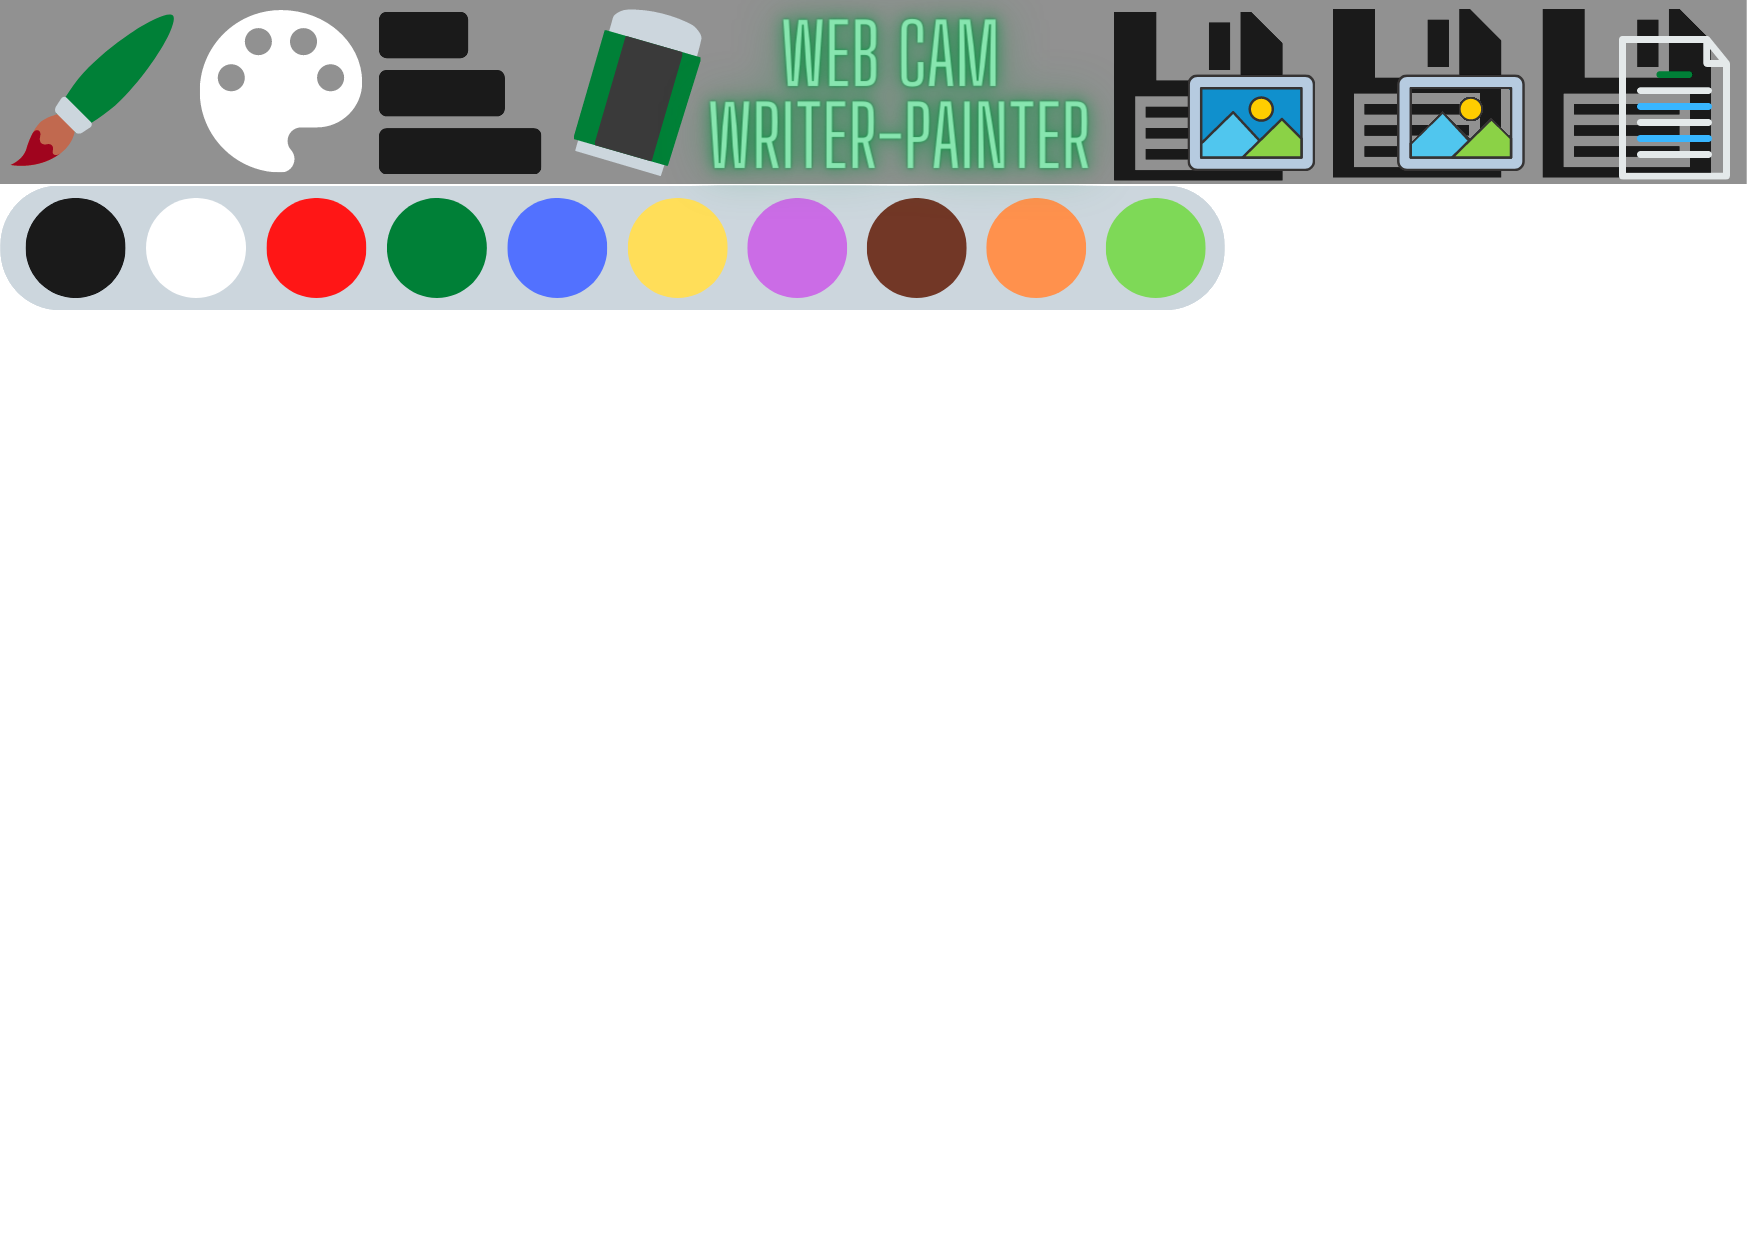
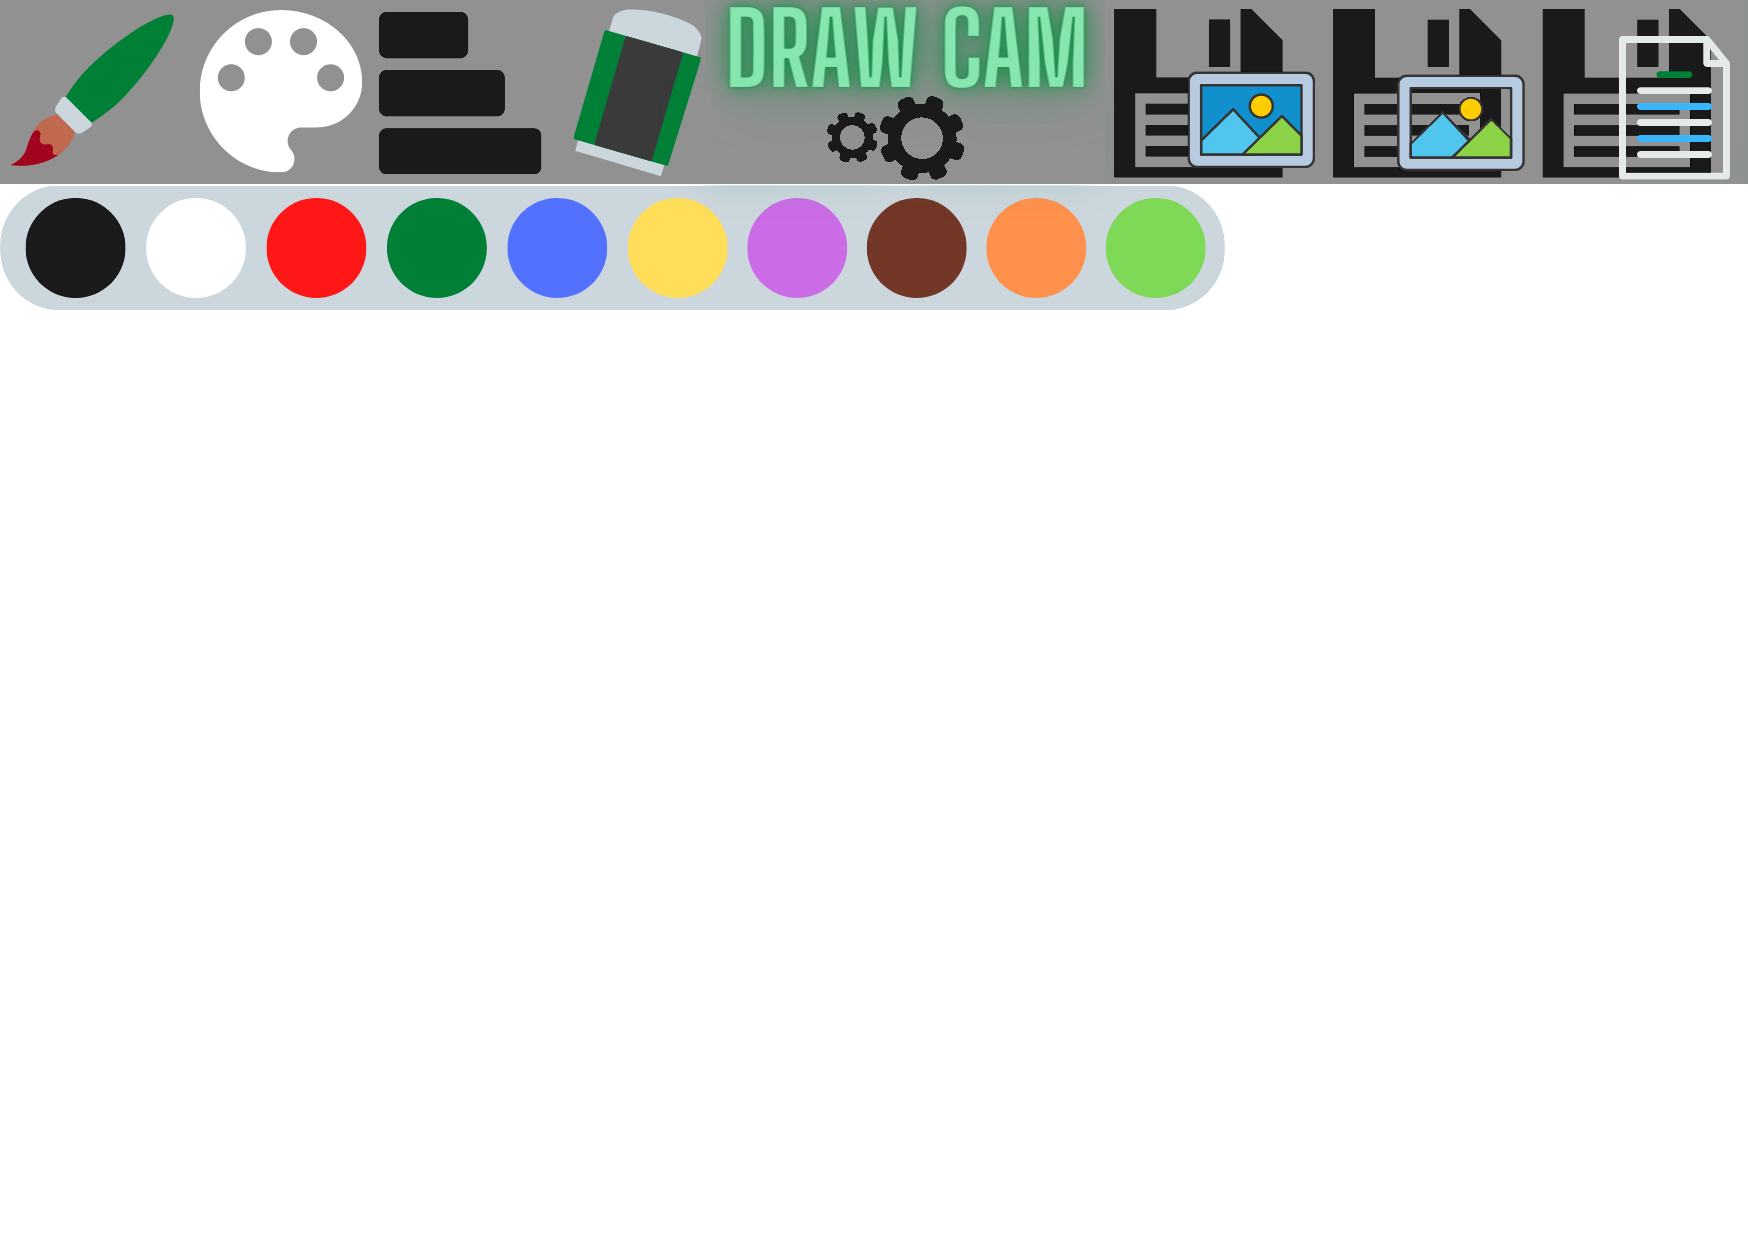
new settings: num of tracked hands, onoff fps disp

Changed region(s): [[0.4016, 0.0, 0.7414, 0.1532]]

diff --git a/ToolsInterface.py b/ToolsInterface.py
@@ -7,15 +7,19 @@ class ToolsInterface:
     __defaultWidth = 1748
     __defaultHeigth = 1240
     __defaultStripHeight = 183
-    __defaultIconSpacing = [(8,177),(196,365),(375,544),(555,724),(1105,1304),(1329,1513),(1537,17320)]
-    __numberOfIcons = 7
+    __defaultIconSpacing = [(8,177),(196,365),(375,544),(555,724),(1105,1304),(1329,1513),(1537,17320), (810,980)]
+    __numberOfIcons = 8
     __numberOfSizes = 3
     __numberOfColors = 10
+    __numberOfSettings = 3
 
     __defaultSizeSpacing = [(34,394),(416,776),(800,1160)]
     __defaultSizeBarHeigth = 180
     __defaultColorPalleteSpacing = [20,110,10] #First param - distance from left border, Second - width of one color option, Third - space between colors in the pallete
     __defaultColorPalleteHeigth = 124
+
+    __defaultSettingSpacing = [(560,700),(768,1030),(1054,1240) ]
+    __defaultSettingsHeight = 180
 
     def __init__(self) -> None:
         self.interfaceImgIndex = 0
@@ -33,7 +37,14 @@ class ToolsInterface:
         self.sizeBarSpacing = ToolsInterface.__defaultSizeSpacing
         self.sizeBarHeigth = ToolsInterface.__defaultSizeBarHeigth
         self.colorPaletteSpacing = ToolsInterface.__defaultColorPalleteSpacing
-        self.colorPalleteHeigth = ToolsInterface.__defaultStripHeight
+        self.colorPalleteHeigth = ToolsInterface.__defaultColorPalleteHeigth
+        self.settingsSpacing = ToolsInterface.__defaultSettingSpacing
+        self.settingsHeight = ToolsInterface.__defaultSettingsHeight
+
+        self.multi_hands_mode_ON = False
+        self.fps_mode_ON = False
+        self.lock_fps_mode = False
+
 
     def adjustToCamSize(self, width, height) -> None:
         for i in range(0,len(self.resourcesListImg)): 
@@ -42,9 +53,11 @@ class ToolsInterface:
         h,w,c = self.resourcesListImg[0].shape
         self.width = w
         self.height = h
-        self.stripHeight = (int)((h/ToolsInterface.__defaultHeigth) * self.stripHeight)
-        self.sizeBarHeigth = (int)((h/ToolsInterface.__defaultHeigth) * self.sizeBarHeigth)
-        self.colorPalleteHeigth = (int)((h/ToolsInterface.__defaultHeigth) * self.colorPalleteHeigth)
+        hProp = h/ToolsInterface.__defaultHeigth
+        self.stripHeight = (int)(hProp * self.stripHeight)
+        self.sizeBarHeigth = (int)(hProp * self.sizeBarHeigth)
+        self.colorPalleteHeigth = (int)(hProp * self.colorPalleteHeigth)
+        self.settingsHeight = (int)(hProp * self.settingsHeight)
 
         for i in range(0,len(self.resourcesListImg)): 
             he,wi,ch = self.resourcesListImg[i].shape
@@ -62,9 +75,12 @@ class ToolsInterface:
         for i in range(0,ToolsInterface.__numberOfSizes):
                 self.sizeBarSpacing[i] = ((int)(self.sizeBarSpacing[i][0]*wProp),(int)(self.sizeBarSpacing[i][1]*wProp))
 
+        for i in range(0, len(self.settingsSpacing)):
+            self.settingsSpacing[i] = ((int)(self.settingsSpacing[i][0]*wProp),(int)(self.settingsSpacing[i][1]*wProp))
+
 
     def setToolsImg(self, is_eraser_active = False, icon_id = 0) -> None:
-        if icon_id == 0 or icon_id > 3:
+        if icon_id == 0 or (icon_id > 3 and icon_id < 7):
             self.interfaceImgIndex = 0
         elif icon_id == 1 and is_eraser_active == False:
                 self.interfaceImgIndex = 1
@@ -75,19 +91,21 @@ class ToolsInterface:
                 self.interfaceImgIndex = 2
         elif icon_id == 3:
                 self.interfaceImgIndex = 3
+        elif icon_id == 7:
+            self.interfaceImgIndex = self.__chooseCurrentSettingsImage()
         pass
-    # def setToolsImg(self, paint = False, color_pick = False, paint_size = False, eraser = False, eraser_size = False) -> None:
-    #     if paint == True:
-    #         self.interfaceImgIndex = 0
-    #     elif color_pick == True:
-    #         self.interfaceImgIndex = 1
-    #     elif paint_size == True:
-    #         self.interfaceImgIndex = 2
-    #     elif eraser == True:
-    #         self.interfaceImgIndex = 3
-    #     elif eraser_size == True:
-    #         self.interfaceImgIndex = 4
-    #     pass
+
+    def __chooseCurrentSettingsImage(self):
+        if self.multi_hands_mode_ON:
+            if self.fps_mode_ON:
+                return 8
+            else:
+                return 7
+        if self.multi_hands_mode_ON == False:
+            if self.fps_mode_ON:
+                return 6
+            else:
+                return 5
 
     def pickTool(self, x, y) -> Tuple:
         """coordinates has to be passed as pixel position"""
@@ -98,6 +116,7 @@ class ToolsInterface:
             while matching == False and icon_choosen < ToolsInterface.__numberOfIcons:
                 if x >= self.iconSpacing[icon_choosen][0] and x < self.iconSpacing[icon_choosen][1]:  
                     matching = True
+                    self.lock_fps_mode = False
                 else:
                     icon_choosen += 1 
         if 7 > icon_choosen > 3:
@@ -141,4 +160,29 @@ class ToolsInterface:
                     iteration += 1 
 
         return size_Id_choosen
-        pass
+
+    def pickSettings(self, x, y):
+        matching = False
+        iteration = 0
+        if y <= self.stripHeight + self.settingsHeight and y > self.stripHeight: 
+            while matching == False and iteration < self.__numberOfSettings:
+                if x > self.settingsSpacing[iteration][0] and x <=  self.settingsSpacing[iteration][1]:
+                    matching = True
+                    if iteration == 0: 
+                        self.multi_hands_mode_ON = False                 
+                    if iteration == 1:
+                        self.multi_hands_mode_ON = True
+                    if iteration == 2: #TODO
+                        if self.fps_mode_ON and self.lock_fps_mode != True:
+                            self.fps_mode_ON = False
+                            self.lock_fps_mode = True
+                        elif self.lock_fps_mode != True:
+                            self.fps_mode_ON = True
+                            self.lock_fps_mode = True
+                else:
+                    iteration += 1 
+
+        return (self.multi_hands_mode_ON, self.fps_mode_ON)
+
+    def getToolsMode(self): #0- brush,1-colorpick , 2-brushpick ,3-eraser ,4-erasersize, 5-8: settings
+        return self.interfaceImgIndex

diff --git a/DrawCam.py b/DrawCam.py
@@ -18,6 +18,9 @@ class DrawCam:
         self.tools = ToolsInterface.ToolsInterface()
 
         self.tools.adjustToCamSize(self.camera.read()[1].shape[1],self.camera.read()[1].shape[0])
+
+        self.is_fps_counter_on = False
+        self.fpsC = FPScounter()
         pass
 
     def __setCanvas(self, parentImg):
@@ -57,7 +60,7 @@ class DrawCam:
         elif saveMode == 6: #as a text
             #TODO save img
             print("SAVING IMAGE IN MODE: ", str(saveMode))
-            time.sleep(2)      
+        time.sleep(2)      
         pass  
 
     def __handlePaletteSelections(self, X,Y, frame):
@@ -74,12 +77,21 @@ class DrawCam:
             if handsData[4][i] == True and handsData[2][i] == True and handsData[3][i] == True:
                 xPx,yPx = self.recogniser.toPixelCoord(frame.shape, handsData[1][i])
                 matchedPick = self.tools.pickTool(frame.shape[1] - xPx, yPx)
-                                                        
-                if matchedPick[0]:
+                
+                if matchedPick[0]:                              
                     self.tools.setToolsImg(self.painter.getEraserMode(), matchedPick[1])
                     self.painter.setMode(matchedPick[1])
-                if matchedPick[2]:
-                    self.__wrapSaveProcedure(matchedPick[1], frame, self.canvas)
+                    if matchedPick[2]:
+                        self.__wrapSaveProcedure(matchedPick[1], frame, self.canvas)
+
+                if self.tools.getToolsMode() >= 5:
+                    settings = self.tools.pickSettings(frame.shape[1] - xPx, yPx)
+                    if settings[0]:
+                        self.recogniser.changeModel(2)
+                    else:
+                        self.recogniser.changeModel(1)
+                    self.is_fps_counter_on = settings[1]
+                    self.tools.setToolsImg(self.painter.getEraserMode(), 7)                                                    
 
                 self.__handlePaletteSelections(xPx, yPx, frame)
         pass
@@ -101,9 +113,13 @@ class DrawCam:
                 frame = self.__superimposeImages(frame, self.tools.getToolsImgFlipped()) 
 
                 for i in range(0, handsData[0]):
-                    frame = self.recogniser.paintMarkers(handsData[5][i], frame, self.painter.getCurrentColor())
+                    frame = self.recogniser.paintMarkers(handsData[5][i], frame, self.painter.getCurrentColor(), self.painter.getCurrentSize())
 
                 frame = cv2.flip(frame, 1)
+                
+                if self.is_fps_counter_on:
+                    frame = self.fpsC.displayFPS(frame)
+
                 cv2.imshow("DRAW-CAM", frame)
 
         self.camera.release()
@@ -115,18 +131,18 @@ class FPScounter:
         self.time_stamp_now = time.time()
         pass
     
-    def getFPS(self):
+    def __getFPS(self):
         self.time_stamp_now = time.time()
-        fps, self.time_stamp_start = self.countFPS(self.time_stamp_now, self.time_stamp_start)
+        fps, self.time_stamp_start = self.__countFPS(self.time_stamp_now, self.time_stamp_start)
         return fps
 
     def displayFPS(self, image):
-        fpsNum = self.getFPS()
+        fpsNum = self.__getFPS()
         image = cv2.putText(image, str(fpsNum), (0, image.shape[0]-50), cv2.FONT_HERSHEY_SIMPLEX, 3, 
              (94, 10, 2), 8, cv2.LINE_AA, False)
         return image
 
-    def countFPS(t1, t2):
+    def __countFPS(self, t1, t2):
         a = (int) (1/(t1 - t2))
         t2 = t1    
         return a, t2

diff --git a/Recogniser.py b/Recogniser.py
@@ -26,12 +26,12 @@ class Recogniser:
         self.mp_drawing = mp.solutions.drawing_utils
         self.mp_drawing_styles = mp.solutions.drawing_styles
         self.mp_hands = mp.solutions.hands
-        
+        self.num_of_hands = 1
 
         self.hands = self.mp_hands.Hands( static_image_mode=False, model_complexity=Recogniser.__model_complexity,
             min_detection_confidence=Recogniser.__min_detection_confidence,
             min_tracking_confidence=Recogniser.__min_tracking_confidence, 
-            max_num_hands=Recogniser.__max_num_hands)
+            max_num_hands=self.num_of_hands)
         pass
 
     def recogniseHandsOnImg(self, image):
@@ -95,14 +95,17 @@ class Recogniser:
         img = cv2.cvtColor(img, cv2.COLOR_BGR2RGB)
         return img
 
-    def paintMarkers(self, enLmList, img, fingerTipColor):
+    def paintMarkers(self, enLmList, img, fingerTipColor, fingerTipSize):
         colorTip = Recogniser.__topMarkerColor
+        sizeTip = Recogniser.__topMarkerSize
         if fingerTipColor is not None:
             colorTip = fingerTipColor
+        if fingerTipSize is not None:
+            sizeTip = fingerTipSize    
         for i in range(0, len(enLmList)):
             if i in Recogniser.__visibleLandmarksIds:
                 if i in Recogniser.__topMarkersIds:
-                    img = cv2.circle(img, self.toPixelCoord(img.shape, enLmList[i]), Recogniser.__topMarkerSize, colorTip, -1) 
+                    img = cv2.circle(img, self.toPixelCoord(img.shape, enLmList[i]), sizeTip, colorTip, -1) 
                 else:
                     img = cv2.circle(img, self.toPixelCoord(img.shape, enLmList[i]), Recogniser.__markerSize, Recogniser.__markerColor, -1) 
         # for id, lm in enLmList:
@@ -135,3 +138,12 @@ class Recogniser:
         y_pos=(int)(lm.y*imgShape[0])
         x_pos=(int)(imgShape[1]*lm.x)
         return x_pos,y_pos
+
+    def changeModel(self, new_number_of_hands:int = 1):
+        if new_number_of_hands != self.num_of_hands:
+            self.num_of_hands = new_number_of_hands
+            self.hands = self.mp_hands.Hands( static_image_mode=False, model_complexity=Recogniser.__model_complexity,
+                min_detection_confidence=Recogniser.__min_detection_confidence,
+                min_tracking_confidence=Recogniser.__min_tracking_confidence, 
+                max_num_hands=new_number_of_hands)
+        pass

diff --git a/Painter.py b/Painter.py
@@ -91,6 +91,9 @@ class Painter:
 
     def getCurrentColor(self):
         return Painter.__colors[self.current_color]
+    
+    def getCurrentSize(self):
+        return self.brush_size
 
     def getCurrentColorId(self):
         return self.current_color

diff --git a/README.md b/README.md
@@ -1,11 +1,12 @@
 # DRAW CAM - Ai virtual painter
 **Application which lets you draw and write with your hands movement**
-> Uses Mediapipe algorithms for hands recognision 
-> Requeries web cam to work
-> Allows for painting on top of your camera output with multiple tools
-> WIP: Has image to text frature. Converts letters which You draw to .txt
-> Friendly and simple interface
-
+ - [x] Uses Mediapipe algorithms for hands recognision
+ - [x] Requeries web cam to work
+ - [x] Allows for painting on top of your camera output with multiple tools
+ - [X] Work with one or two hands
+ - [ ] WIP: Has image to text frature. Converts letters which You draw to .txt
+ - [x] Friendly and simple interface
+ 
 # Usage:
 **Make sure your webcam is connected and is working properly**
 > App window is scalable with cam resolution, low res cameras might work poorly with this program
@@ -14,19 +15,21 @@
 - Rise your middle and index finger and join them together to enter select mode 
 - In select mode you can choose one from menu options, separate or lower fingers to exit selection mode
 - To save your work, use selection mode and select one of the following: 
-- > Save as image with camera output as a background
-- > Save as transparent image without background (only your drawing)
-- > Save as text - any recognized letters on your canvas will be saved to .txt file
+> - Save as image with camera output as a background
+> - Save as transparent image without background (only your drawing)
+> - Save as text - any recognized letters on your canvas will be saved to .txt file
 
 ### Example
 -
 
+## Installation
+Install dependencies listed below. Copy this repo into one designated folder and run DrawCam.py
+
 ## Resources and Dependencies:
- Dependencies:
+Dependencies:
 > - OpenCV - https://opencv.org 
 > - MediaPipe https://mediapipe.dev
 > - NumPy https://numpy.org 
 
-
 ## License 
-This project is licensed under the terms of the MIT license.
+This project is licensed under the terms of the MIT license.    
